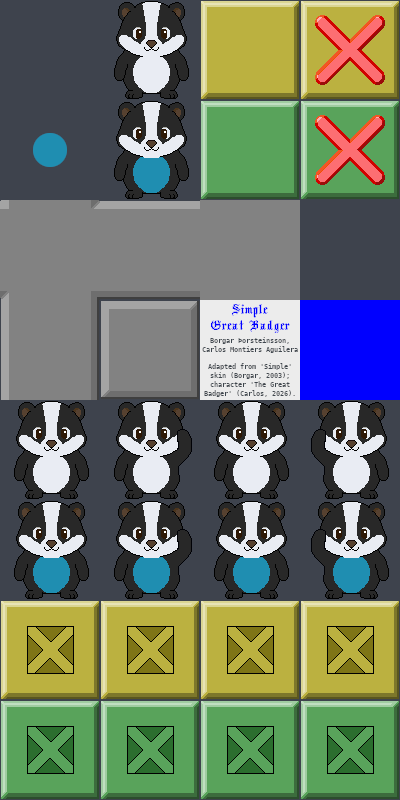
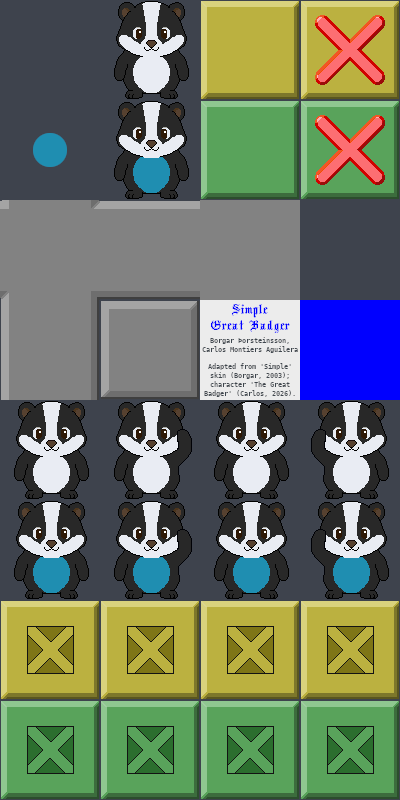
Update boxes

diff --git a/README.md b/README.md
@@ -2,7 +2,7 @@
 
 A spritesheet designed for Sokoban games.
 
-![The Great Badger](SimpleGreatBadger.png?rev=1)
+![The Great Badger](SimpleGreatBadger.png?rev=2)
 
 ## Details
 
@@ -21,7 +21,7 @@ In 2011, the original skin was updated to lighter colors and [released](https://
 
 Simple Great Badger skin example:
 
-![Simple Great Badger skin example](SimpleGreatBadger-Example.png)
+![Simple Great Badger skin example](SimpleGreatBadger-Example.png?rev=2)
 
 I made the boxes look less bulky by reducing the edge width.
 
@@ -29,7 +29,7 @@ I reused the original walls but repainted them in a simpler style to reduce thei
 
 I added the [Great Badger character](https://github.com/carlos-montiers/sokoban-great-badger), which was designed specifically to work on dark gray backgrounds.
 
-The skin uses the exact colors for the boxes and floor from the original skin in the 2003 program.
+The skin retains the original box and floor colors from the 2003 program, while the box edge colors have been updated.
 
 ## License
 
